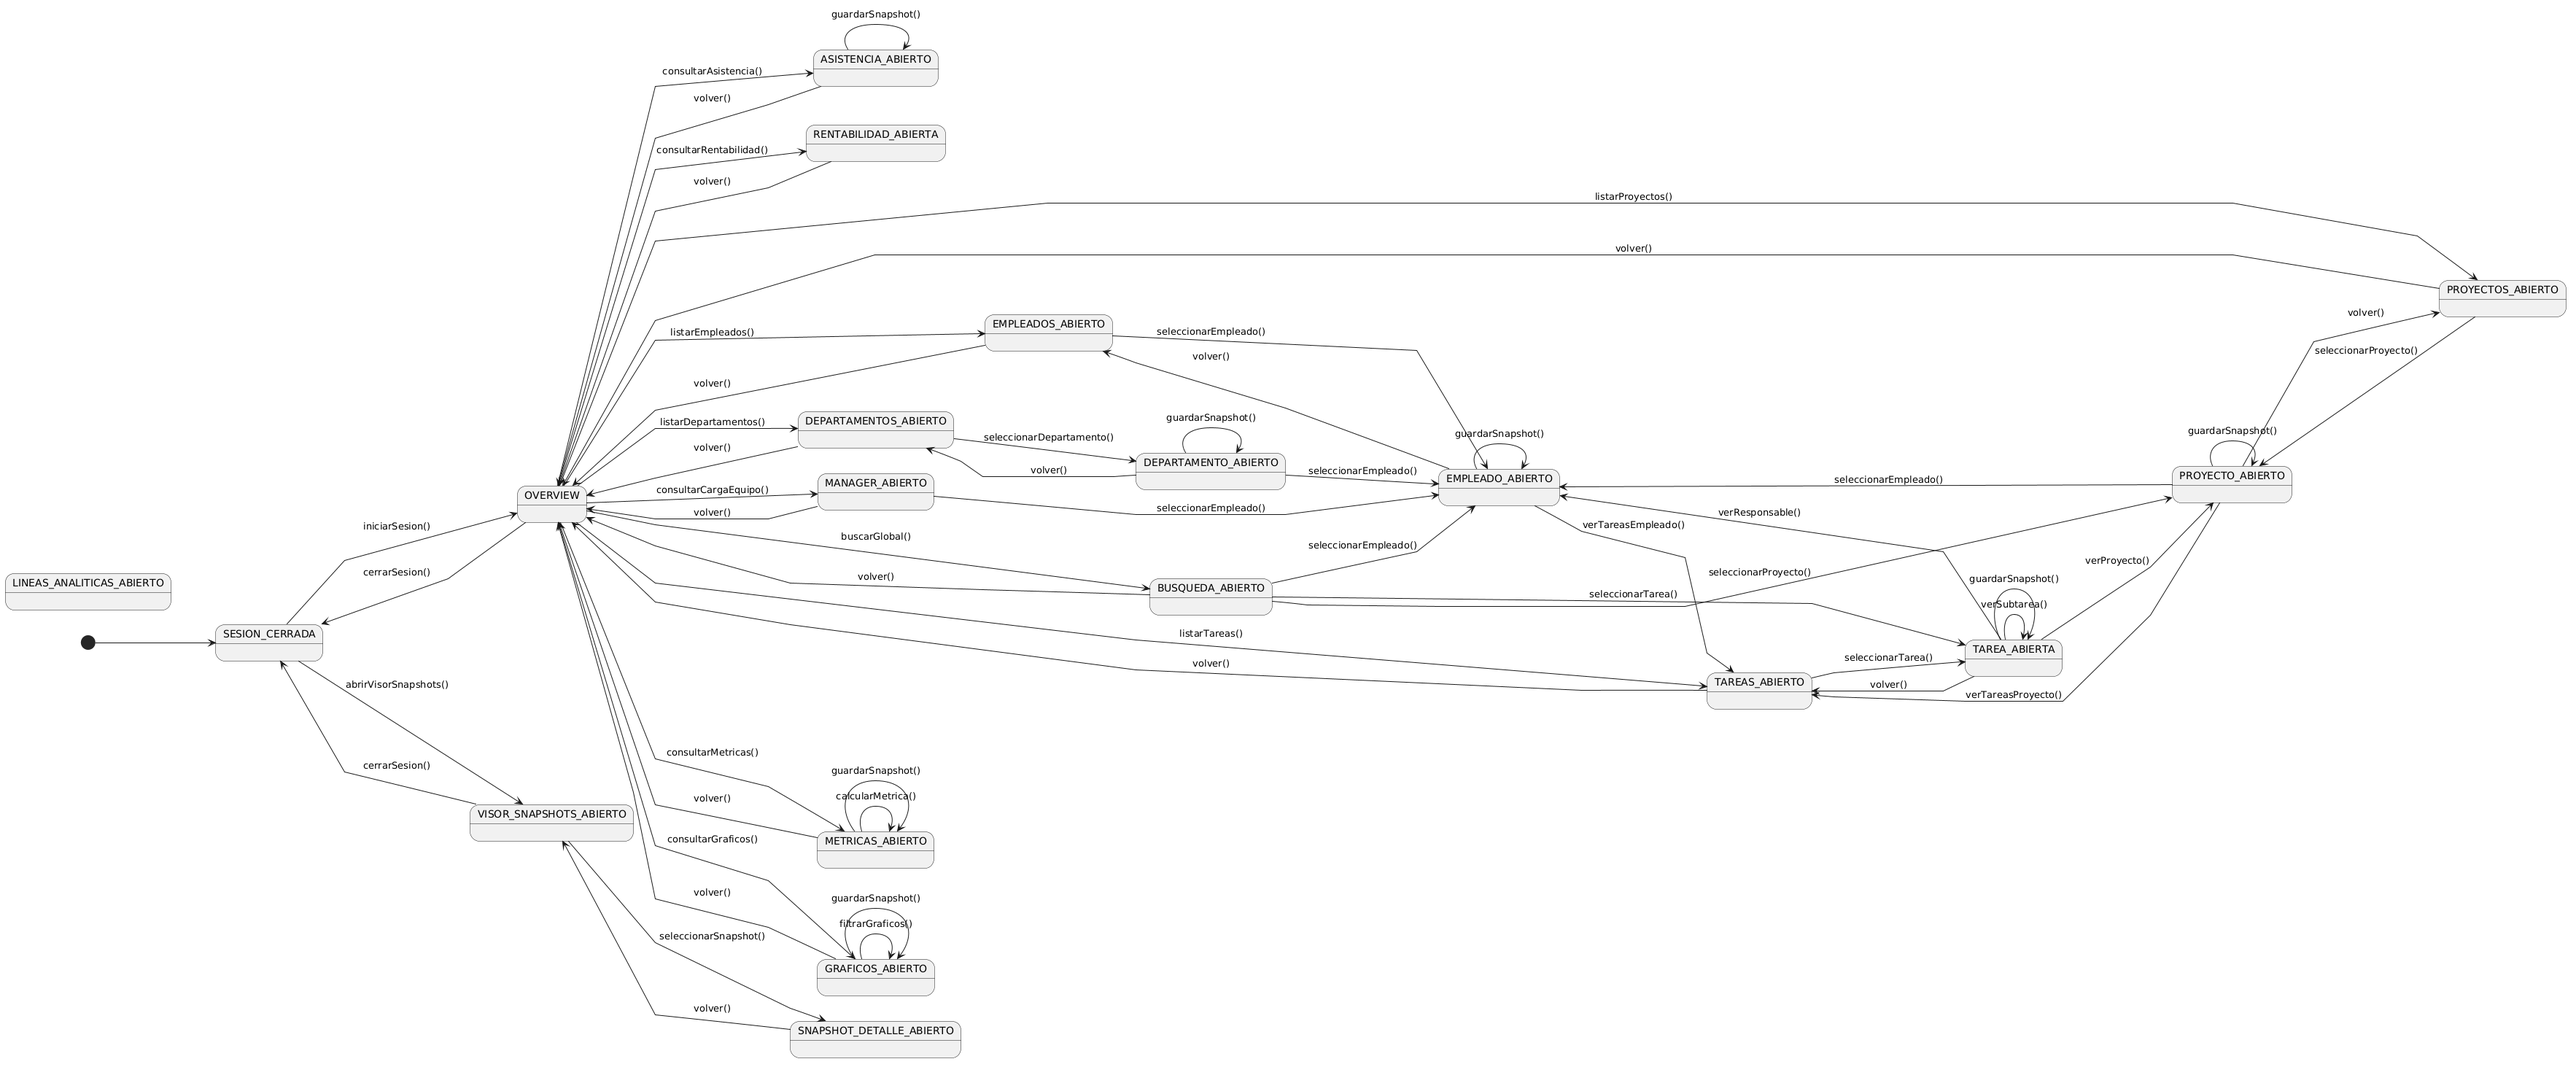
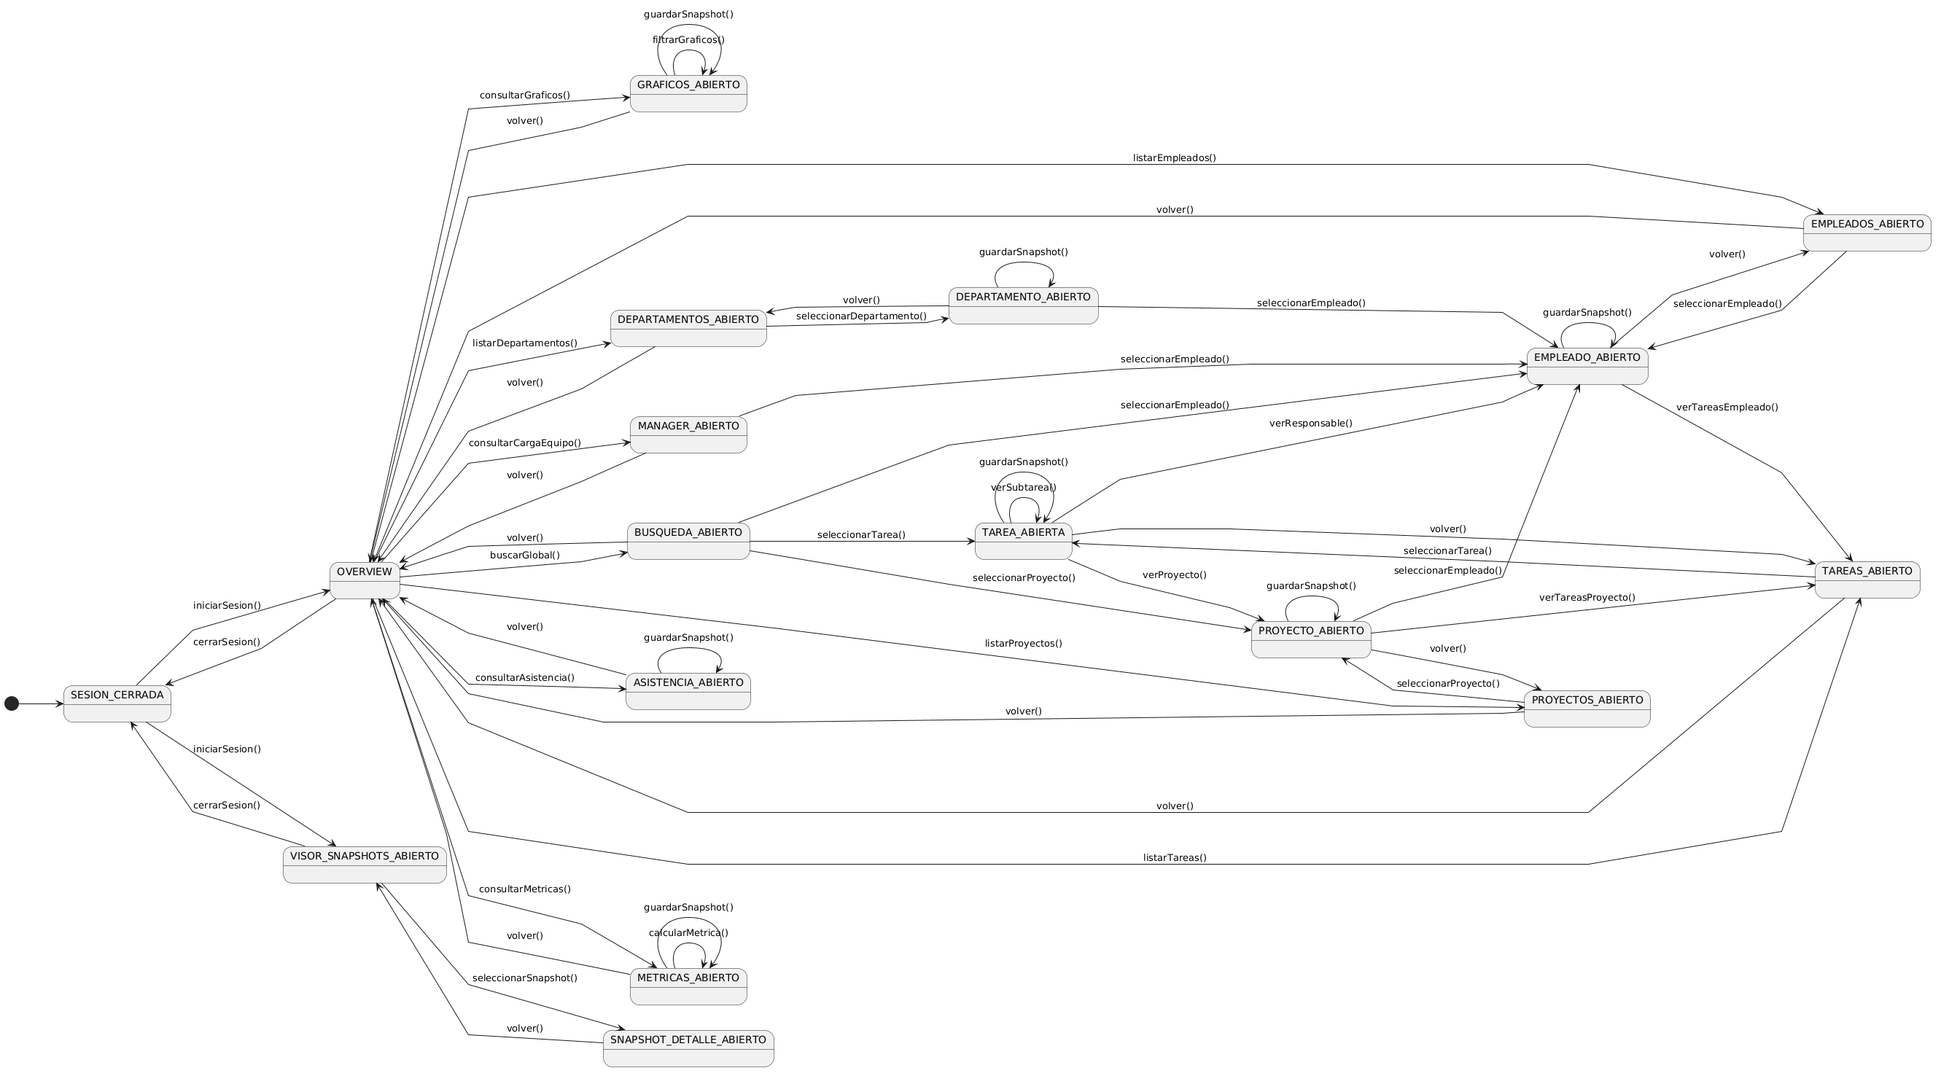
actualización de los diagramas de navegación

diff --git a/Estudiantes/cesar-garcia-eguiguren/Capítulo-2/README.md b/Estudiantes/cesar-garcia-eguiguren/Capítulo-2/README.md
@@ -24,7 +24,8 @@
     - [Estructurar el Modelo de Casos de Uso](DisciplinaDeRequisitos.md#5-estructurar-el-modelo-de-casos-de-uso)
         - [Diagrama de Contexto (Director)](DisciplinaDeRequisitos.md#51-diagrama-de-contexto--director)
         - [Diagrama de Contexto (Responsable)](DisciplinaDeRequisitos.md#52-diagrama-de-contexto--responsable)
-        - [Relaciones entre Casos de Uso](DisciplinaDeRequisitos.md#53-relaciones-include--extend-del-modelo)
+        - [Diagramas de Navegación](DisciplinaDeRequisitos.md#53-diagramas-de-navegación)
+        - [Relaciones entre Casos de Uso](DisciplinaDeRequisitos.md#54-relaciones-include--extend)
             - [Relaciones Include](DisciplinaDeRequisitos.md#1-relaciones-de-inclusión-include)
             - [Relaciones Extend](DisciplinaDeRequisitos.md#2-relaciones-de-extensión-extend)
 
